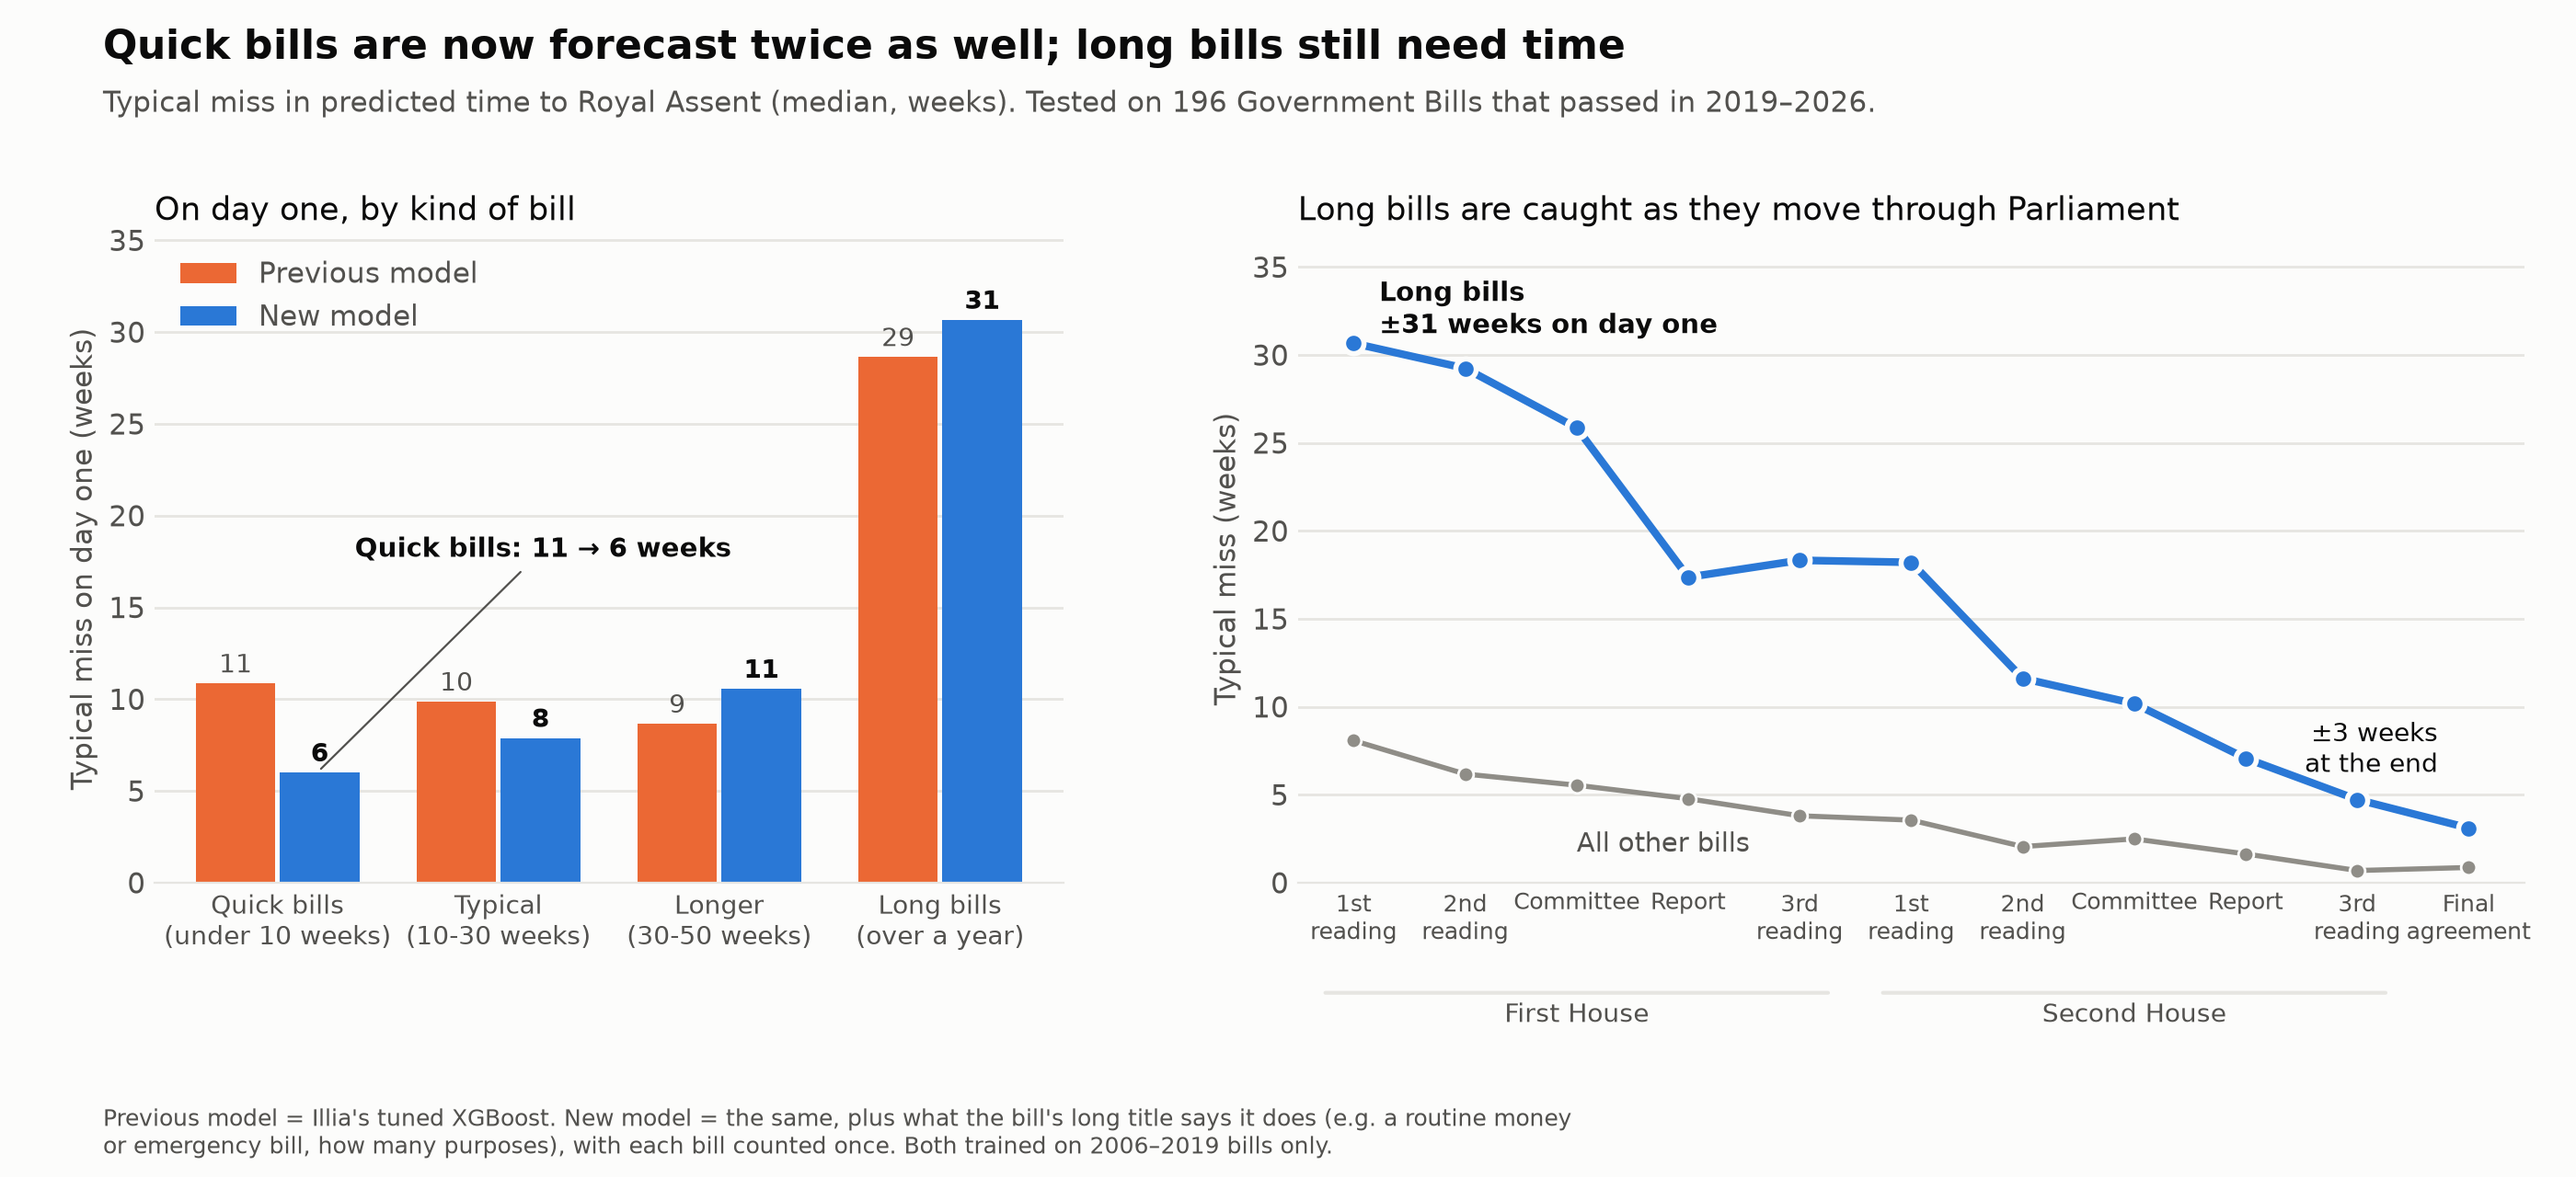
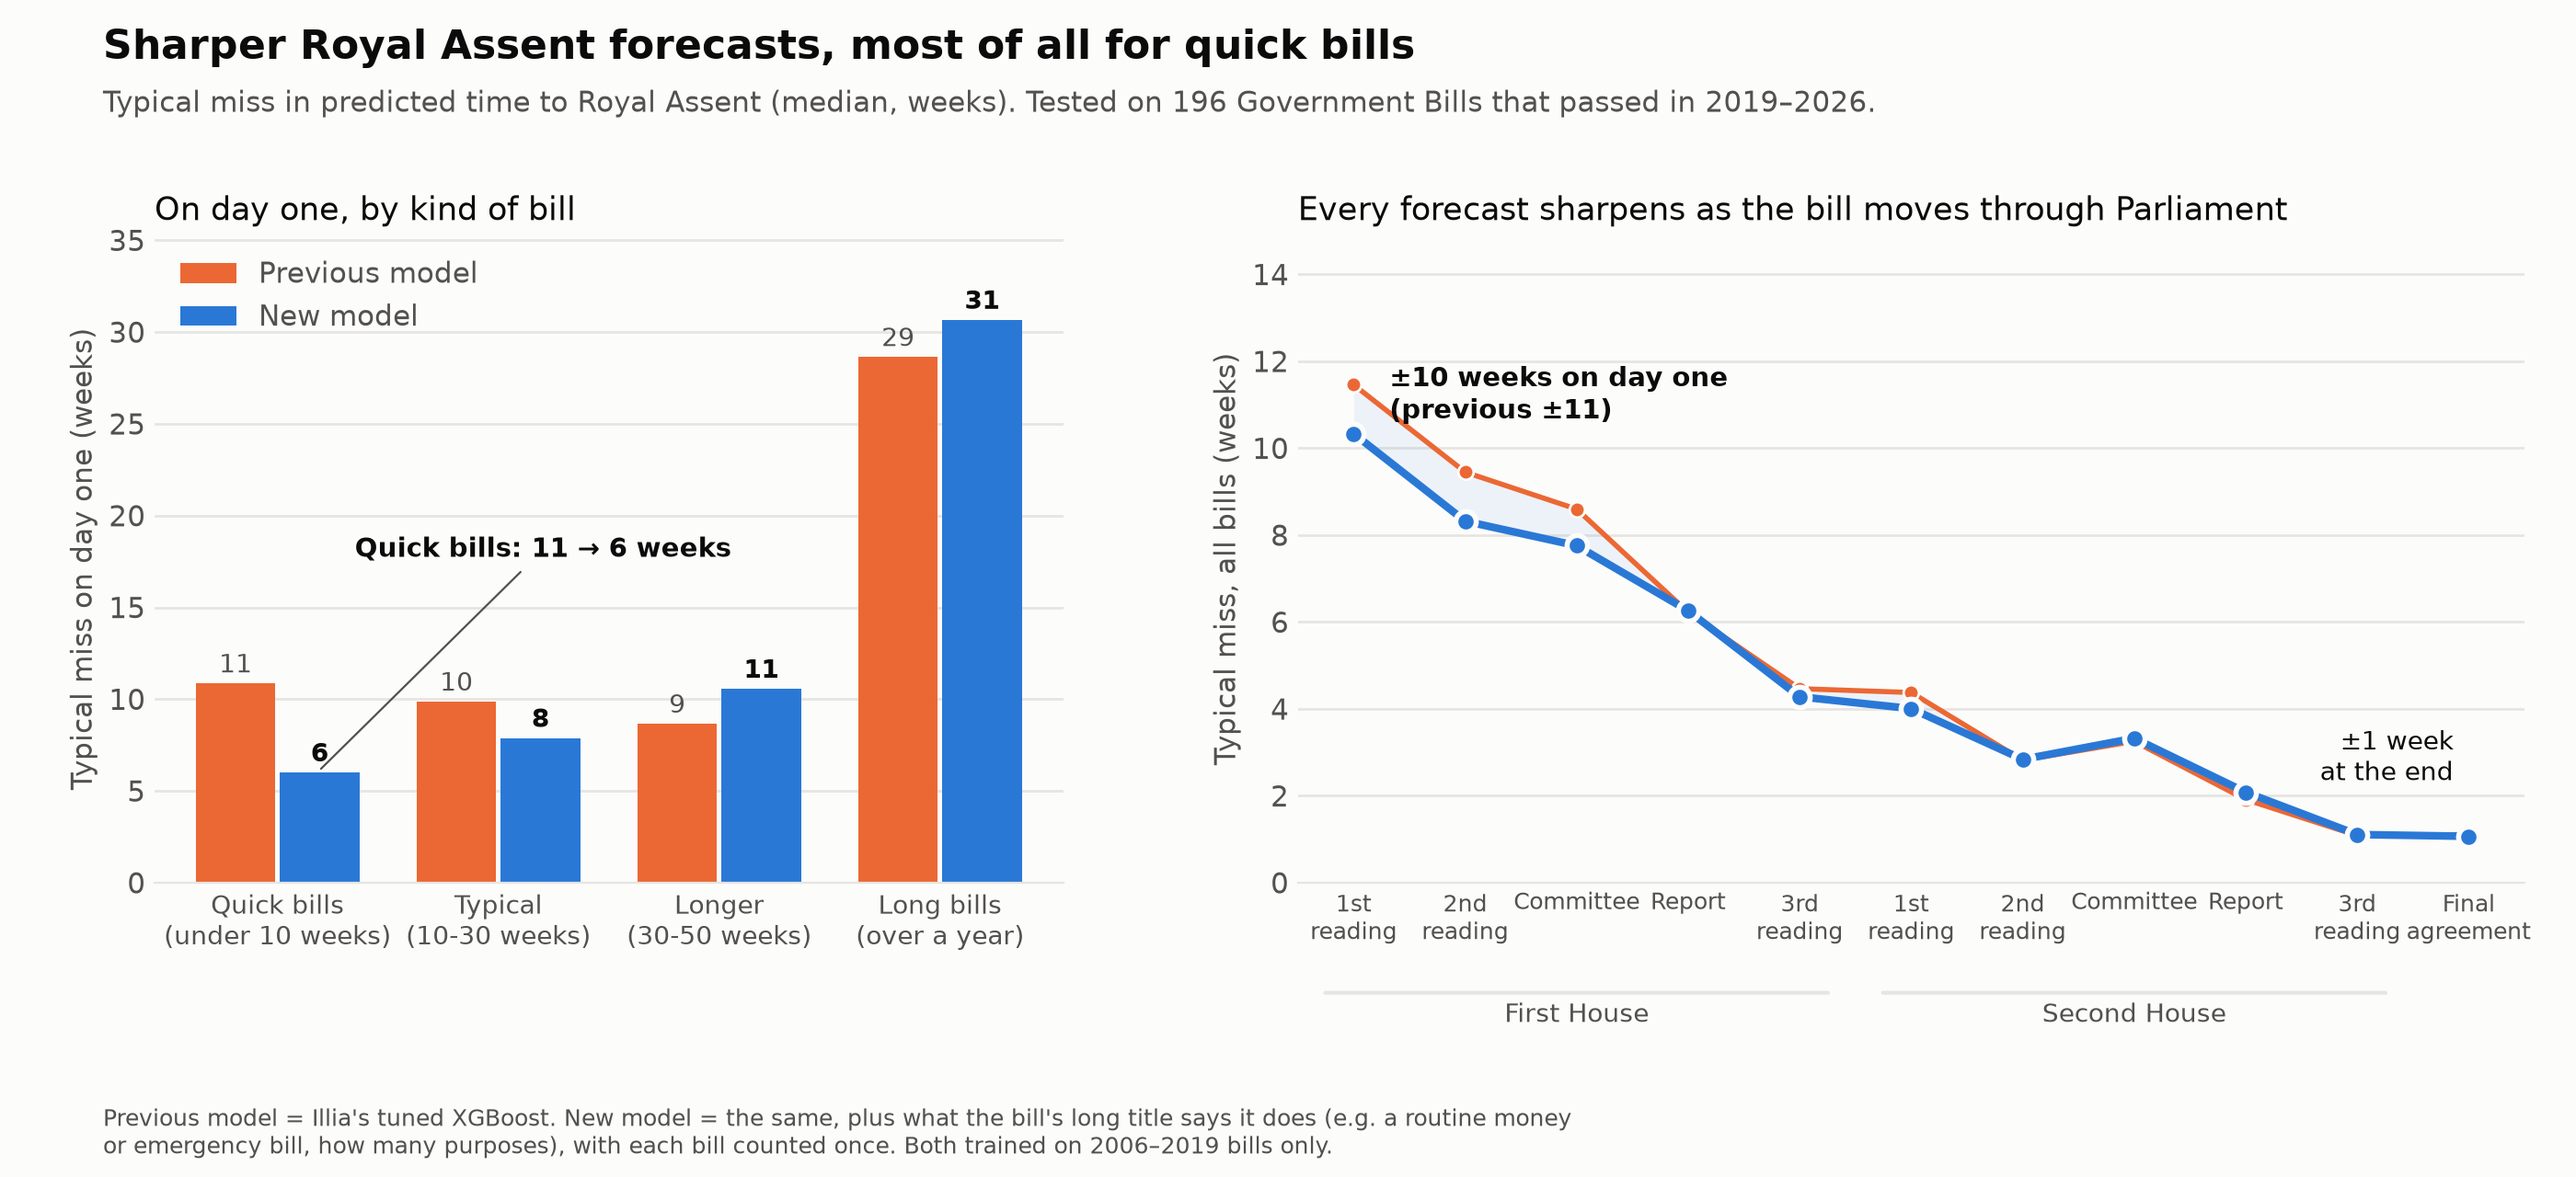
docs(analysis): stakeholder chart covers all bills by stage

diff --git a/backend/src/westminster_weather/analysis/remaining_time_tails.py b/backend/src/westminster_weather/analysis/remaining_time_tails.py
@@ -214,7 +214,7 @@ OLD = "v2 XGBoost"
 
 def stakeholder_chart(report_dir: Path = REPORT_DIR) -> Path:
     """Two panels in the style of ``stakeholder_chart``: day-one miss by kind of bill (previous
-    vs new model), and how the miss on long bills shrinks as they move through Parliament."""
+    vs new model), and the miss on all bills by the stage the forecast is made at."""
     import matplotlib
 
     matplotlib.use("Agg")
@@ -222,7 +222,6 @@ def stakeholder_chart(report_dir: Path = REPORT_DIR) -> Path:
 
     from westminster_weather.analysis.remaining_time_dataset import STAGE_ANCHORS
     from westminster_weather.analysis.stakeholder_chart import (
-        BASELINE_COLOUR,
         GRID,
         INK,
         INK_SOFT,
@@ -287,17 +286,16 @@ def stakeholder_chart(report_dir: Path = REPORT_DIR) -> Path:
     a.legend(frameon=False, loc="upper left", labelcolor=INK_SOFT)
     a.set_ylim(0, max(old + new) * 1.15)
 
-    # B: long bills are caught as they move
+    # B: every bill, previous vs new model, by the stage the forecast is made at
     anchors = [s for s in STAGE_ANCHORS if s in set(t["anchor"])]
-    long_ = t[t["band"] == "> 50 wk"]
-    rest = t[t["band"] != "> 50 wk"]
-    lm = [miss(long_[long_["anchor"] == s], NEW) for s in anchors]
-    rm = [miss(rest[rest["anchor"] == s], NEW) for s in anchors]
+    om = [miss(t[t["anchor"] == s], OLD) for s in anchors]
+    nm = [miss(t[t["anchor"] == s], NEW) for s in anchors]
     xs = range(len(anchors))
-    b.plot(xs, rm, color=BASELINE_COLOUR, lw=2, marker="o", ms=6, markeredgecolor=SURFACE)
+    b.fill_between(xs, nm, om, color=MODEL_COLOUR, alpha=0.07, lw=0)
+    b.plot(xs, om, color=V1_COLOUR, lw=2, marker="o", ms=6, markeredgecolor=SURFACE)
     b.plot(
         xs,
-        lm,
+        nm,
         color=MODEL_COLOUR,
         lw=3,
         marker="o",
@@ -306,30 +304,22 @@ def stakeholder_chart(report_dir: Path = REPORT_DIR) -> Path:
         markeredgewidth=2,
     )
     b.annotate(
-        f"Long bills\n±{lm[0]:.0f} weeks on day one",
-        (0, lm[0]),
-        xytext=(10, 4),
+        f"±{nm[0]:.0f} weeks on day one\n(previous ±{om[0]:.0f})",
+        (0, nm[0]),
+        xytext=(14, 6),
         textcoords="offset points",
         color=INK,
         fontsize=10.5,
         fontweight="bold",
     )
     b.annotate(
-        f"±{lm[-1]:.0f} weeks\nat the end",
-        (len(anchors) - 1, lm[-1]),
-        xytext=(-12, 22),
+        f"±{nm[-1]:.0f} week{'s' if round(nm[-1]) != 1 else ''}\nat the end",
+        (len(anchors) - 1, nm[-1]),
+        xytext=(-6, 22),
         textcoords="offset points",
         color=INK,
         fontsize=10,
         ha="right",
-    )
-    b.annotate(
-        "All other bills",
-        (2, rm[2]),
-        xytext=(0, -26),
-        textcoords="offset points",
-        color=INK_SOFT,
-        fontsize=10.5,
     )
     b.set_xticks(
         list(xs),
@@ -337,14 +327,14 @@ def stakeholder_chart(report_dir: Path = REPORT_DIR) -> Path:
         fontsize=9,
         color=INK_SOFT,
     )
-    b.set_ylabel("Typical miss (weeks)", color=INK_SOFT)
+    b.set_ylabel("Typical miss, all bills (weeks)", color=INK_SOFT)
     b.set_title(
-        "Long bills are caught as they move through Parliament",
+        "Every forecast sharpens as the bill moves through Parliament",
         loc="left",
         color=INK,
         fontsize=12.5,
     )
-    b.set_ylim(0, max(lm) * 1.2)
+    b.set_ylim(0, max(om + nm) * 1.3)
     for start, end, label in ((0, 4, "First House"), (5, 9, "Second House")):
         b.annotate(
             "",
@@ -378,7 +368,7 @@ def stakeholder_chart(report_dir: Path = REPORT_DIR) -> Path:
     fig.text(
         0.04,
         0.95,
-        "Quick bills are now forecast twice as well; long bills still need time",
+        "Sharper Royal Assent forecasts, most of all for quick bills",
         fontsize=16,
         fontweight="bold",
         color=INK,

diff --git a/docs/agent-logs/feat--takeup-model.md b/docs/agent-logs/feat--takeup-model.md
@@ -1,5 +1,11 @@
 # Agent log: `feat/takeup-model`
 
+## 2026-10-25 04:35 — docs(analysis): stakeholder chart covers all bills by stage
+
+- **What:** right panel of `backend/reports/remaining_time_tails/0_summary_for_stakeholders.png` now shows the typical miss for all bills by stage, previous vs new model (was long bills only); headline "Sharper Royal Assent forecasts, most of all for quick bills".
+- **Why:** Roman asked for the chart to be general, not only about long bills.
+- **Checks:** `ruff check`: clean; rendered and checked. All bills: ±10 weeks on day one (previous ±11), ±1 week at the end; the two models match from report stage on.
+
 ## 2026-10-25 04:33 — docs(analysis): stakeholder chart for the XGBoost tails
 
 - **What:** `remaining_time_tails.py --chart` draws `backend/reports/remaining_time_tails/0_summary_for_stakeholders.png` in the style of `analysis/stakeholder_chart.py` (same colours and layout): day-one miss by kind of bill (previous vs new model), and the miss on long bills by stage against all other bills.
